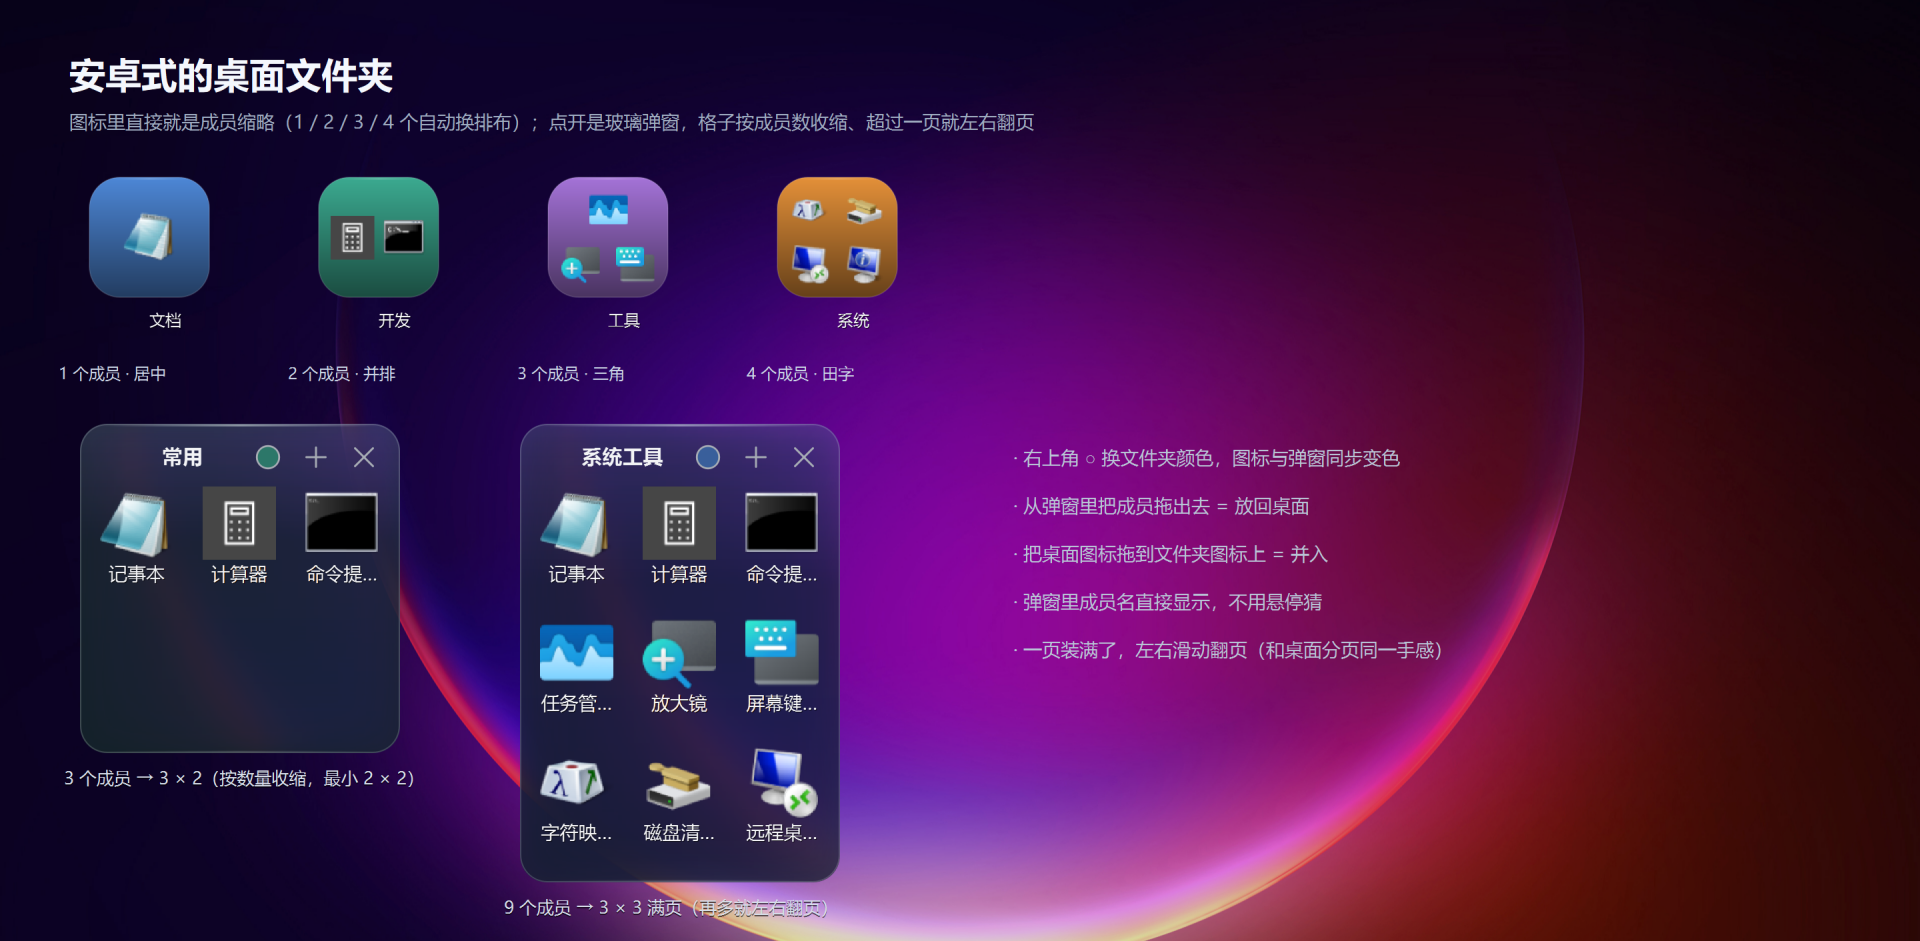
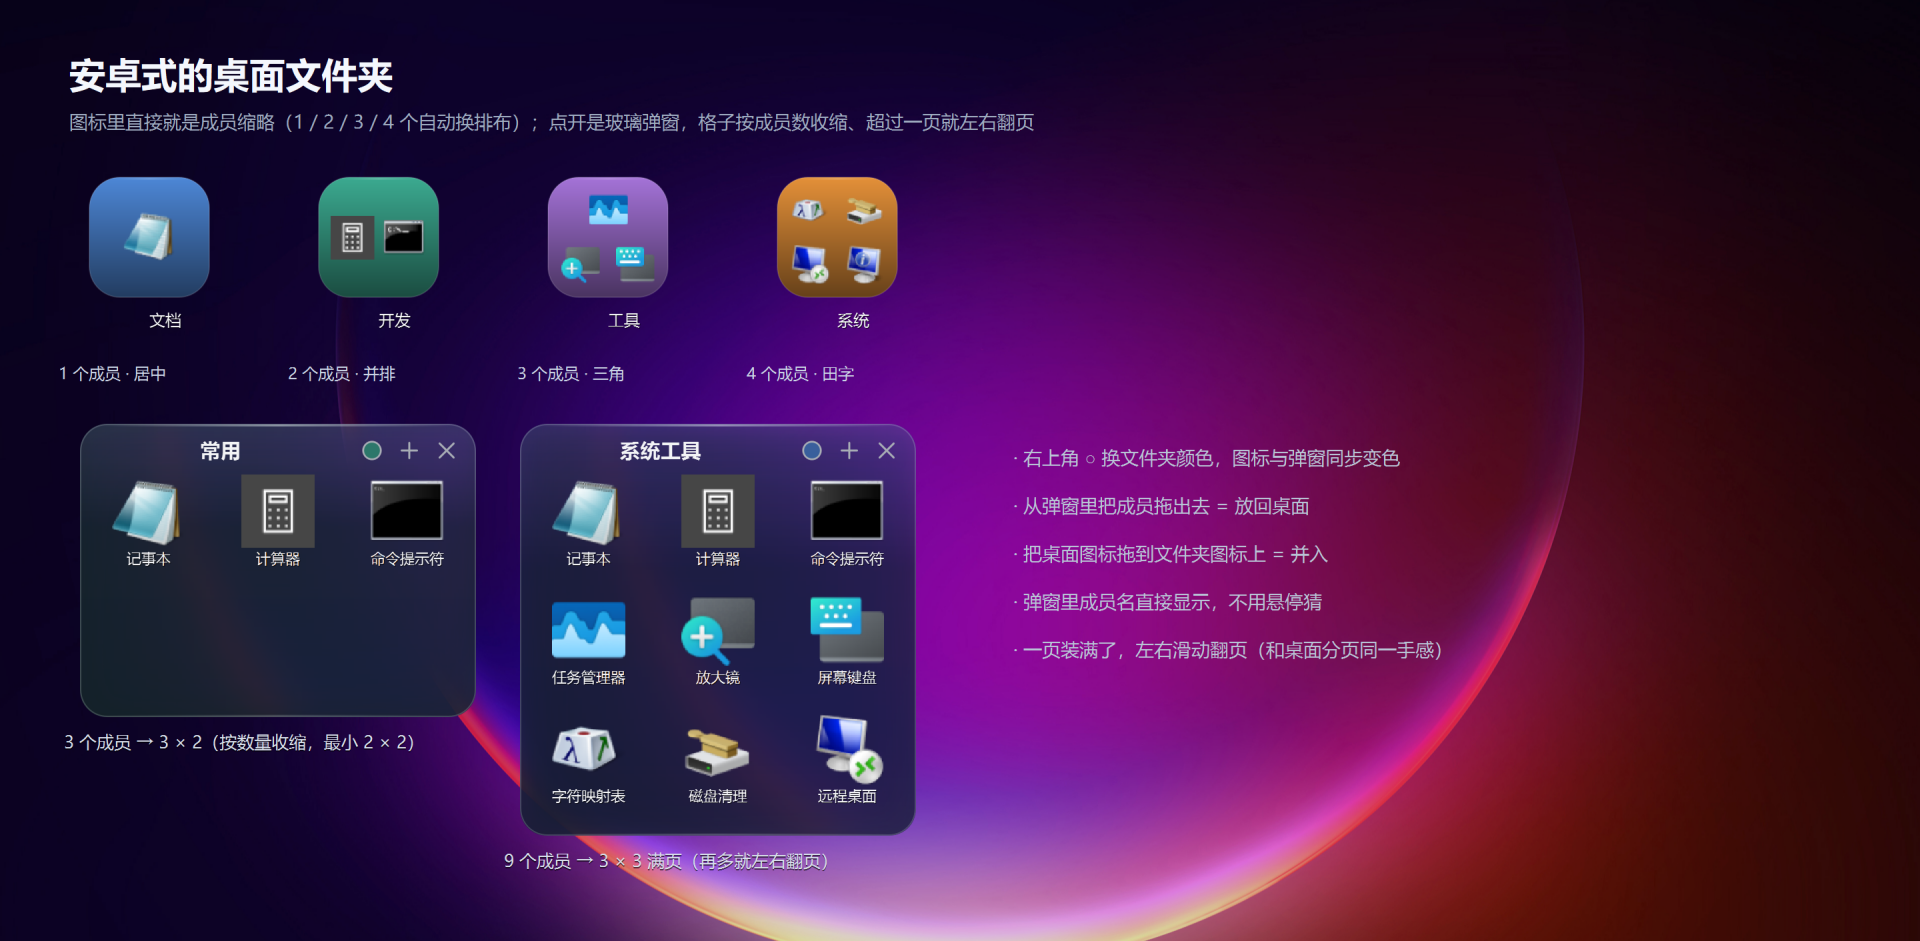
docs(v10-B2): 数据裁决写进规格与台账；01/06/07 素材按新尺寸重出
- 指导文档 §3.1：第 2/3 步按四格数据改写（ui_scale 去 dpr、cell 不加 scale 参、
  DPI_CAP 取消），加「落地修订」段列出初稿的 1.5625 倍推算与实测对照
- 指导文档 §3.3：徽标物理 17/21/26（∝dpr¹），三档断言并入 test_dpi_scale D4
- 实施计划 B2 卡：文件/红/绿/判据全部改成落地版 + 落地记录；B4 卡标注「并入 B2」
  并删掉独立的 select_badge 测试引用（避免两份重复真相）
- DEVLOG：页首状态更新；§5 加「Day 24 续四」B2 全过程（含三档实测表、成员名
  从省略号变完整的视觉收获）；§8 新增坑 #109（Qt 已缩放时再乘 dpr = dpr²，
  直觉的两种错解：加 DPI_CAP / 让 cell 同乘）
- HANDOVER：头部状态改「A/B 批完成 + B3 为最后一张卡」，测试数 81
- README/README_EN：81 个脚本，修掉 EN 里残留的 49
- check_docs PLANNED_TESTS：删 test_dpi_scale / test_select_badge 两条白名单
- docs/images 01-desktop / 06-mobile / 07-folder 重出（脚本生成），目检：弹窗成员名
  六个从「命令提…」变完整，无裁切/重叠

Changed region(s): [[0.25, 0.4315, 0.5, 0.9862], [0.0312, 0.4315, 0.25, 0.8629]]

diff --git a/scripts/check_docs.py b/scripts/check_docs.py
@@ -245,10 +245,8 @@ TEST_REF_RX = re.compile(r"tests/(test_[A-Za-z0-9_]+\.py)")
 # 白名单条目随之删除（B/C/D 批的 7 个仍在）。
 PLANNED_TESTS = {
     "test_dock.py": "C3 Dock 栏",
-    "test_dpi_scale.py": "B2 DPI 单一旋钮",
     "test_i18n.py": "D3 英文适配",
     "test_page_flip.py": "B3 轮播式翻页",
-    "test_select_badge.py": "B4 长按徽标尺寸",
     "test_storage_paths.py": "D1 改名数据目录",
     "test_widget_music.py": "C2 音乐组件",
 }

diff --git a/README_EN.md b/README_EN.md
@@ -147,7 +147,7 @@ PhoneDesktopForWindow/
 │   ├── build_portable.ps1   # PyInstaller onedir → zip (needs pwsh 7)
 │   ├── installer.iss        # Inno Setup 6 installer (must be UTF-8 BOM)
 │   └── check_docs.py        # Docs consistency check (dead links / duplicate sections / doc-vs-code drift)
-├── tests/                   # 80 standalone scripts (no pytest); judge by exit code
+├── tests/                   # 81 standalone scripts (no pytest); judge by exit code
 │   ├── smoke_test.py        # Headless logic regression (storage/clone/layout)
 │   └── test_*.py            # One per contract: reflow, dual mode, hit-testing, popup, widgets…
 └── tools/                   # Runtime probes probe*.py + packaged-build verification verify_*.py
@@ -159,7 +159,7 @@ PhoneDesktopForWindow/
 # Headless logic regression
 python tests/smoke_test.py
 
-# Full suite: 49 standalone scripts, no pytest; judge by exit code only
+# Full suite: 81 standalone scripts, no pytest; judge by exit code only
 Get-ChildItem tests/test_*.py | ForEach-Object {
     python $_.FullName
     if ($LASTEXITCODE -ne 0) { "FAILED: $($_.Name)" }

diff --git a/README.md b/README.md
@@ -147,7 +147,7 @@ PhoneDesktopForWindow/
 │   ├── build_portable.ps1   # PyInstaller onedir → zip（需 pwsh 7）
 │   ├── installer.iss        # Inno Setup 6 安装包（必须 UTF-8 BOM）
 │   └── check_docs.py        # 文档一致性自检（死链/重复章节/文档与代码数值漂移）
-├── tests/                   # 80 个独立可跑脚本（无 pytest），判据看退出码
+├── tests/                   # 81 个独立可跑脚本（无 pytest），判据看退出码
 │   ├── smoke_test.py        # 无头逻辑回归（存储/克隆/布局）
 │   └── test_*.py            # 每条契约一份：让位引擎、双模式、命中、弹窗、组件…
 └── tools/                   # 运行态探针 probe*.py + 打包验证 verify_*.py
